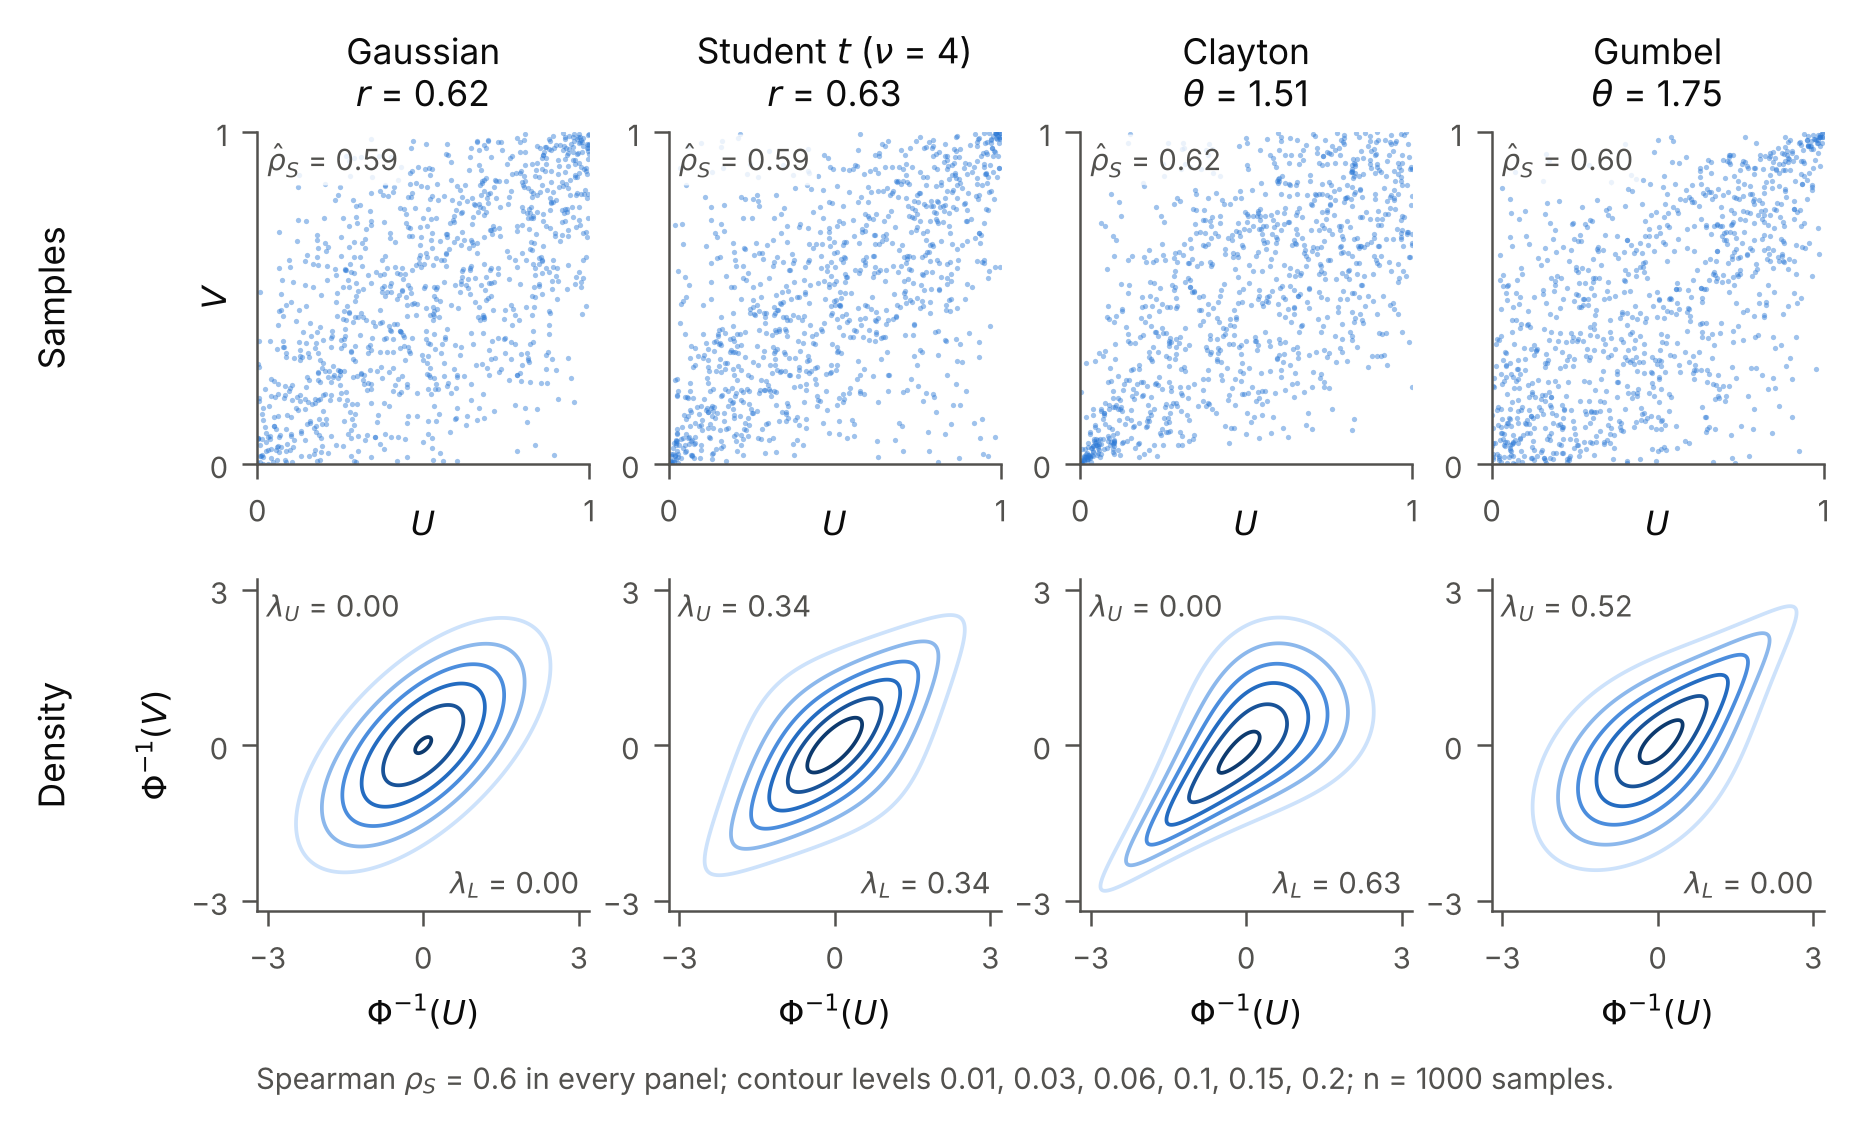
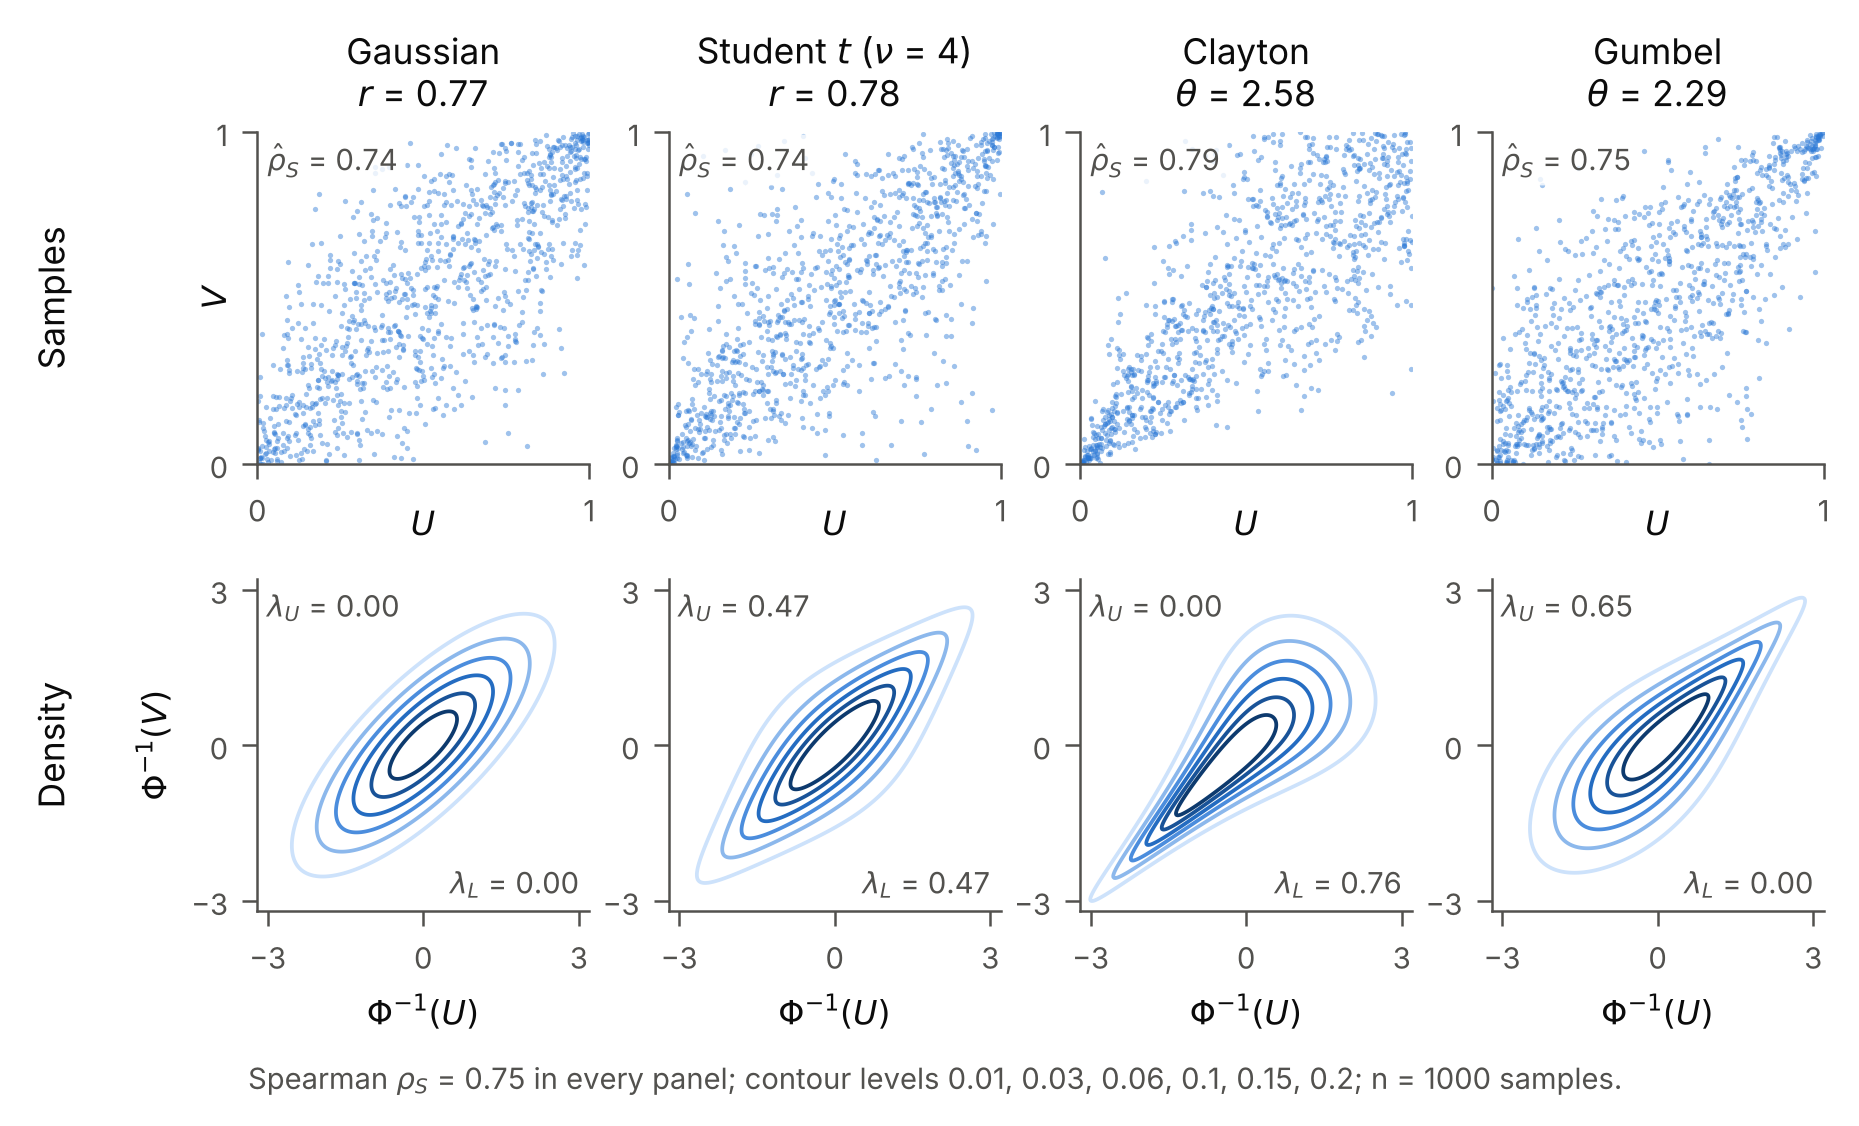
Chapter 3 parametric figure at rho_S = 0.75
Stronger dependence shows the tail shapes more clearly (Gaussian r 0.7654, t r 0.7790, Clayton 2.5797,
Gumbel 2.2852).

Claude-Session: https://claude.ai/code/session_011LH6MHfBJAMQDu7UQqGgRH

diff --git a/experiments/ch3-background/plot_ch3_parametric.py b/experiments/ch3-background/plot_ch3_parametric.py
@@ -1,4 +1,4 @@
-"""Chapter 3: four parametric copula families at one Spearman rho_S (Chapter 6's constant scenario): samples on the
+"""Chapter 3: four parametric copula families at one Spearman rho_S: samples on the
 copula scale (top) and density contours on normal scores at common levels (bottom). Parameters come from inverting each
 family's rho_S by quadrature (closed form for the Gaussian); they match src/copula_family.hpp. Self-checks: each density
 integrates to 1 on the grid and each sample's rho_S matches the target. Writes images/ch3_parametric.png."""
@@ -8,7 +8,7 @@ from scipy import optimize, stats
 
 from ch3_style import INK, INK_2, MARK, note, save, scatter, tail_coefficients
 
-RHO_S = 0.6
+RHO_S = 0.75
 NU = 4.0
 N = 1000
 SEED = 42
